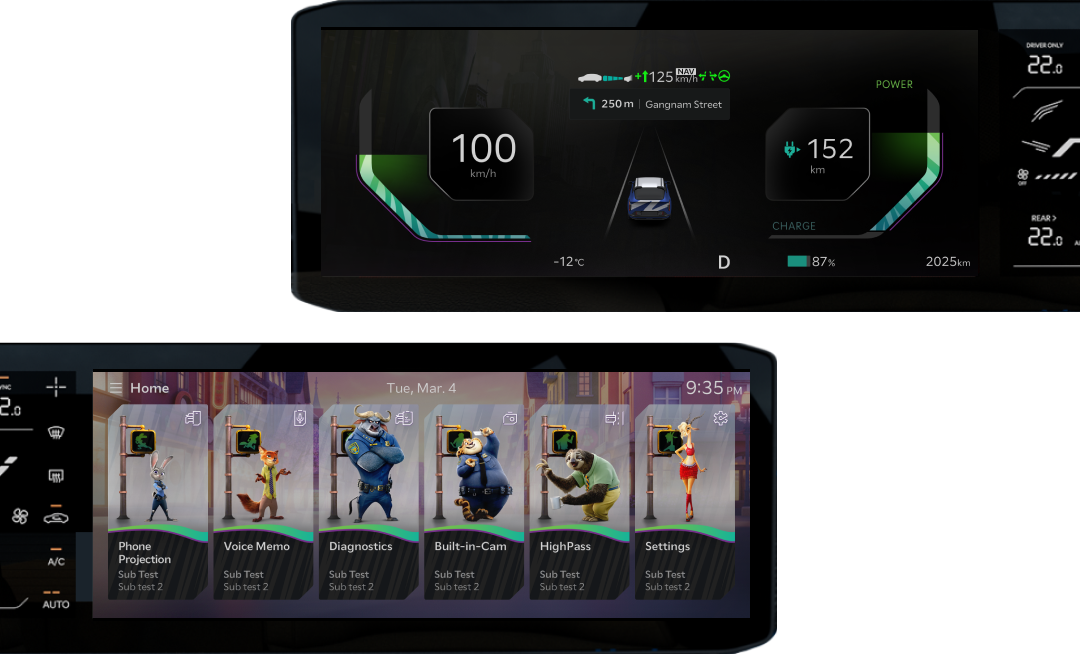
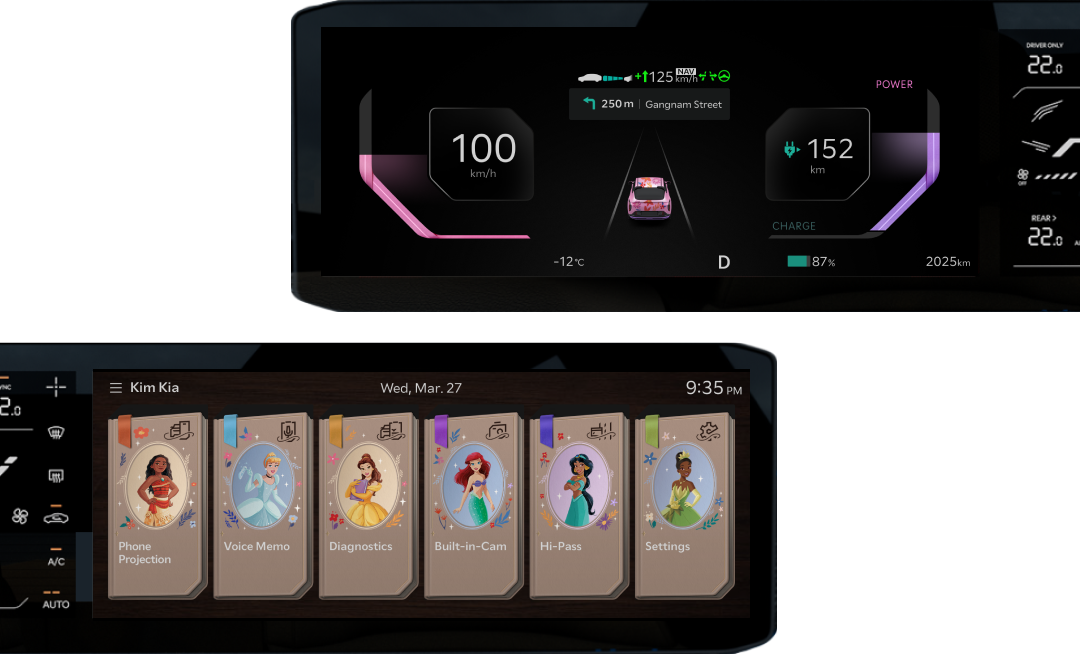
feat: [disney] 프린세스 테마 추가, 주토피아와 순서 바뀜

diff --git a/product/pdp_display_theme_disney.html b/product/pdp_display_theme_disney.html
@@ -467,14 +467,14 @@
                     id="check3"
                     name="check"
                     type="checkbox"
-                    value="Disney Zootopia"
+                    value="Disney Princesses"
                   />
                   <label for="check3">
                     <img
-                      alt="Option 3 - Disney Zootopia"
+                      alt="Option 3 - Disney Princesses"
                       src="../assets/images/kia/pdp/disney/productthumb_disneyth03.png"
                     />
-                    <span class="optionText">Disney Zootopia</span>
+                    <span class="optionText">Disney Princesses</span>
                   </label>
                 </div>
               </div>
@@ -604,6 +604,35 @@
                   src="../assets/images/kia/pdp/disney/disneyth03_brandlogo.png"
                 />
                 <h2 class="kv-title">
+                  Bring Disney Princess inspired art<br />
+                  to the dashboard of your Kia!
+                </h2>
+                <p class="kv-subtitle">
+                  Experience an elegant display inspired by the strength,
+                  kindness and positivity of Disney Princesses.
+                </p>
+              </div>
+            </div>
+            <div class="swiper-slide kv-slide" data-theme="04">
+              <picture class="kv-image">
+                <source
+                  media="(max-width: 769px)"
+                  srcset="
+                    ../assets/images/kia/pdp/disney/disneyth04_hero_mo.png
+                  "
+                />
+                <img
+                  alt="KV Image 3"
+                  src="../assets/images/kia/pdp/disney/disneyth04_hero.png"
+                />
+              </picture>
+              <div class="kv-contents">
+                <img
+                  alt="zootopia logo"
+                  class="kv-logo"
+                  src="../assets/images/kia/pdp/disney/disneyth04_brandlogo.png"
+                />
+                <h2 class="kv-title">
                   Bring the Zootopia theme to your Kia!<br />
                   Enjoy lively Zootopia inspired art on your dashboard.
                 </h2>
@@ -684,13 +713,16 @@
                     "
                   />
                   <img
-                    alt="Disney Zootopia"
+                    alt="Disney Princesses"
                     src="../assets/images/kia/pdp/disney/sec02_cardthumb_03.png"
                   />
                 </picture>
                 <div class="card-contents">
-                  <h3>Disney Zootopia</h3>
-                  <p>#Judy #Nick<br />#Bunny #Fox</p>
+                  <h3>Disney Princesses</h3>
+                  <p>
+                    #SnowWhite #Cinderella <br />
+                    #Mulan #Rapunzel
+                  </p>
                 </div>
               </li>
               <li class="card coming_soon">
@@ -702,12 +734,12 @@
                     "
                   />
                   <img
-                    alt="Disney Zootopia"
+                    alt="Disney Princesses"
                     src="../assets/images/kia/pdp/disney/sec02_cardthumb_04.png"
                   />
                 </picture>
                 <div class="card-contents">
-                  <h3>Disney Princess</h3>
+                  <h3>Disney Zootopia</h3>
                   <p>COMING SOON</p>
                 </div>
               </li>
@@ -717,8 +749,8 @@
                     <source
                       media="(max-width: 769px)"
                       srcset="
-                      ../assets/images/kia/pdp/disney/sec02_img_staytuned_mo.png
-                    "
+                        ../assets/images/kia/pdp/disney/sec02_img_staytuned_mo.png
+                      "
                     />
                     <img
                       alt="progress bar"
@@ -741,7 +773,7 @@
           <div class="theme-selector buttons">
             <button data-theme="01">Disney Mickey & Friends</button>
             <button data-theme="02">Disney Frozen</button>
-            <button data-theme="03">Disney Zootopia</button>
+            <button data-theme="03">Disney Princesses</button>
           </div>
 
           <div class="theme-selector dropdown">
@@ -755,7 +787,7 @@
             <ul class="theme-list">
               <li value="01">Disney Mickey & Friends</li>
               <li value="02">Disney Frozen</li>
-              <li value="03">Disney Zootopia</li>
+              <li value="03">Disney Princesses</li>
             </ul>
           </div>
         </div>
@@ -1007,8 +1039,14 @@
         <!-- Discover Playful Designs START -->
         <section class="playful" id="playful">
           <div class="playful-wrapper">
-            <h2 class="playful-title">
+            <h2 class="playful-title" data-theme="01">
               Discover <br class="view-mo" />Playful Designs
+            </h2>
+            <h2 class="playful-title" data-theme="02">
+              Discover <br class="view-mo" />Playful Designs
+            </h2>
+            <h2 class="playful-title" data-theme="03">
+              Discover <br class="view-mo" />Adorable Designs
             </h2>
             <div class="section-inner playful-contents-wrapper">
               <div class="playful-content-item welcome">
@@ -1208,7 +1246,7 @@
                     src="../assets/images/kia/pdp/disney/disneyth02_disc01.png"
                   />
                   <img
-                    alt="Cluster - Disney Zootopia"
+                    alt="Cluster - Disney Princesses"
                     class="xfade-item"
                     data-theme="03"
                     src="../assets/images/kia/pdp/disney/disneyth03_disc01.png"
@@ -1239,7 +1277,7 @@
                     src="../assets/images/kia/pdp/disney/disneyth02_disc02.png"
                   />
                   <img
-                    alt="Navigation - Disney Zootopia"
+                    alt="Navigation - Disney Princesses"
                     class="xfade-item"
                     data-theme="03"
                     src="../assets/images/kia/pdp/disney/disneyth03_disc02.png"
@@ -1266,7 +1304,7 @@
                     src="../assets/images/kia/pdp/disney/disneyth02_disc03.png"
                   />
                   <img
-                    alt="Homecard - Disney Zootopia"
+                    alt="Homecard - Disney Princesses"
                     class="xfade-item"
                     data-theme="03"
                     src="../assets/images/kia/pdp/disney/disneyth03_disc03.png"
@@ -1293,7 +1331,7 @@
                     src="../assets/images/kia/pdp/disney/disneyth02_disc04.png"
                   />
                   <img
-                    alt="Profile - Disney Zootopia"
+                    alt="Profile - Disney Princesses"
                     class="xfade-item"
                     data-theme="03"
                     src="../assets/images/kia/pdp/disney/disneyth03_disc04.png"

diff --git a/assets/css/pdp/disney/key_visual-disney.css b/assets/css/pdp/disney/key_visual-disney.css
@@ -8,7 +8,7 @@
 }
 [data-product=disney] .kv-slide .kv-contents {
   position: absolute;
-  top: 5.708%;
+  top: 3.4%;
   left: 50%;
   transform: translateX(-50%);
   width: 100%;
@@ -19,10 +19,10 @@
 }
 [data-product=disney] .kv-slide .kv-logo {
   width: auto;
-  height: clamp(36px, 3.75cqw, 72px);
+  height: clamp(36px, 5.72cqw, 110px);
 }
 [data-product=disney] .kv-slide .kv-title {
-  margin-top: clamp(10px, 1.3vw, 24px);
+  margin-top: -7px;
   color: #ffffff;
   text-align: center;
   font-size: clamp(24px, 2.5vw, 48px);
@@ -49,13 +49,12 @@
     aspect-ratio: 36/53;
   }
   [data-product=disney] .kv-slide .kv-contents {
-    top: 19.13%;
+    top: 14%;
   }
   [data-product=disney] .kv-slide .kv-logo {
-    height: clamp(36px, 10cqw, 60px);
+    height: clamp(36px, 15cqw, 60px);
   }
   [data-product=disney] .kv-slide .kv-title {
-    margin-top: 2.27%;
     font-size: clamp(30px, 8cqw, 40px);
   }
   [data-product=disney] .kv-slide .kv-subtitle {

diff --git a/assets/scss/pdp/disney/key_visual-disney.scss b/assets/scss/pdp/disney/key_visual-disney.scss
@@ -8,7 +8,7 @@
   }
   .kv-contents {
     position: absolute;
-    top: 5.708%;
+    top: 3.4%;
     left: 50%;
     transform: translateX(-50%);
     width: 100%;
@@ -19,10 +19,10 @@
   }
   .kv-logo {
     width: auto;
-    height: clamp(36px, 3.75cqw, 72px);
+    height: clamp(36px, 5.72cqw, 110px);
   }
   .kv-title {
-    margin-top: clamp(10px, 1.3vw, 24px);
+    margin-top: -7px;
     color: #ffffff;
     text-align: center;
     font-size: clamp(24px, 2.5vw, 48px);
@@ -54,13 +54,12 @@
       aspect-ratio: 36 / 53;
     }
     .kv-contents {
-      top: 19.13%;
+      top: 14%;
     }
     .kv-logo {
-      height: clamp(36px, 10cqw, 60px);
+      height: clamp(36px, 15cqw, 60px);
     }
     .kv-title {
-      margin-top: 2.27%;
       font-size: clamp(30px, 8cqw, 40px);
     }
     .kv-subtitle {

diff --git a/assets/css/pdp/disney/playful-disney.css b/assets/css/pdp/disney/playful-disney.css
@@ -13,6 +13,9 @@
 [data-product=disney][data-current-theme="03"] section.playful .playful-wrapper::before {
   background-image: url("../../../images/kia/pdp/disney/disneyth03_disc_bg.png");
 }
+[data-product=disney][data-current-theme="03"] section.playful .playful-title, [data-product=disney][data-current-theme="03"] section.playful h3, [data-product=disney][data-current-theme="03"] section.playful p:not(.warning) {
+  color: black;
+}
 
 @media screen and (max-width: 769px) {
   [data-product=disney][data-current-theme="01"] section.playful .playful-wrapper::before, [data-product=disney][data-current-theme="02"] section.playful .playful-wrapper::before {

diff --git a/assets/css/pdp/disney/theme-selectors-disney.css b/assets/css/pdp/disney/theme-selectors-disney.css
@@ -13,6 +13,6 @@
   color: #ffffff;
 }
 [data-product=disney][data-current-theme="03"] .theme-selector.buttons button[data-theme="03"] {
-  background: linear-gradient(90deg, #84c44e 0%, #1eb57d 50%, #00b39f 100%);
+  background: linear-gradient(90deg, #E0397E 0%, #C3188A 100%);
   backdrop-filter: blur(3px);
 }

diff --git a/assets/scss/pdp/disney/theme-selectors-disney.scss b/assets/scss/pdp/disney/theme-selectors-disney.scss
@@ -19,7 +19,7 @@
   }
 
   &[data-current-theme='03'] .theme-selector.buttons button[data-theme='03'] {
-    background: linear-gradient(90deg, #84c44e 0%, #1eb57d 50%, #00b39f 100%);
+    background: linear-gradient(90deg, #E0397E 0%, #C3188A 100%);
     backdrop-filter: blur(3px);
   }
 }

diff --git a/assets/scss/pdp/disney/playful-disney.scss b/assets/scss/pdp/disney/playful-disney.scss
@@ -17,6 +17,10 @@
       .playful-wrapper::before {
         background-image: url('../../../images/kia/pdp/disney/disneyth03_disc_bg.png');
       }
+
+      .playful-title, h3, p:not(.warning) {
+        color: black;
+      }
     }
   }
 }
